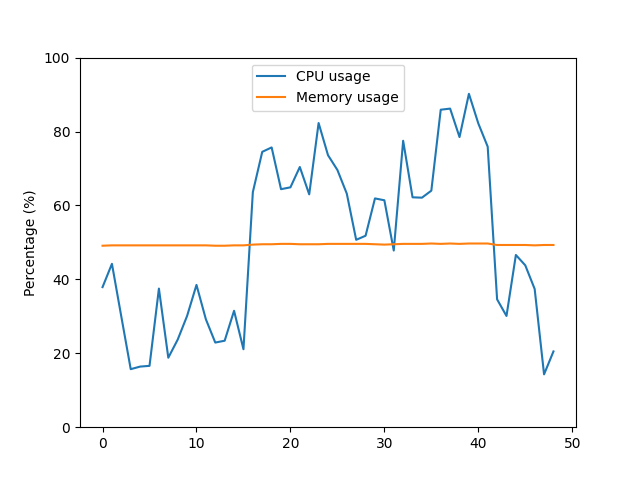
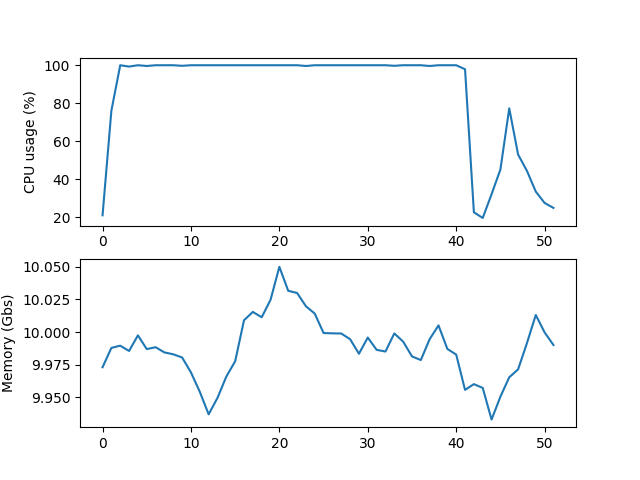
updating multithreading chat

diff --git a/multithreading/server.py b/multithreading/server.py
@@ -59,7 +59,7 @@ class Server:
     def handle_report(self):
         while True:
             self.cpu_ps.append(psutil.cpu_percent(1))
-            self.memory_ps.append(psutil.virtual_memory()[2])
+            self.memory_ps.append(psutil.virtual_memory()[3]/1000000000)
 
 host = "localhost"
 port = 12345
@@ -75,14 +75,11 @@ while True:
 
 
 plt.subplot(2, 1, 1)
-
-line1, = plt.plot(server.cpu_ps, label="CPU usage")
-plt.ylabel('Percentage (%)')
+plt.plot(server.cpu_ps, label="CPU usage")
+plt.ylabel('CPU usage (%)')
 #plt.xticks()
 
-plt.twinx()
-line2, = plt.plot(server.memory_ps, label="Memory usage")
-plt.ylabel('Percentage (%)')
-
-plt.gca().set_ylim(ymin=0)
+plt.subplot(2, 1, 2)
+plt.plot(server.memory_ps, label="Memory usage")
+plt.ylabel('Memory (Gbs)')
 plt.show()

diff --git a/multithreading/client.py b/multithreading/client.py
@@ -31,7 +31,7 @@ def handle_client():
         client.close()
 
 threads = []
-for i in range(100):
+for i in range(1000):
     thread = threading.Thread(target=handle_client)
     thread.daemon = True
     thread.start()

diff --git a/multithreading/README.md b/multithreading/README.md
@@ -1,8 +1,16 @@
-## How to use:
+# Multithreading DDOS chat client-server
+### Requirements:
+ `pip install matplotlib psutil`
+### How to use:
+    excute server.py first
+    then, after, execute client.py
+    after client.py finished its execution, enter `quit` in server.py prompt line
 
-### excute server.py first
-### then, after, execute client.py
-### after client.py finished its execution, enter `quit` in server.py prompt line
-![quit_received](https://github.com/glucard/sistemas_distribuidos/blob/main/multithreading/imgs/quitreceived.png)
-### then a graph will appear, showing the memory and cpu usage during its execution, and bytes receiveds will be prompted
+### Report
+ In this experiments I used a server to receive multiple connections from different clients.
+ In total 1000 threads were created to simulate different 'users', each thread is programmed to send 100 random messages, total of 100_000 (100*1000) messages.
+ The total bytes received from the server was 27512540 bytes.
+ Here is a graph showing the memory usage in Gbs and the CPU usage in percentage (%).
+ where the X axis is the time.
 ![usage](https://github.com/glucard/sistemas_distribuidos/blob/main/multithreading/imgs/usage.png)
+![quit_received](https://github.com/glucard/sistemas_distribuidos/blob/main/multithreading/imgs/quitreceived.png)
